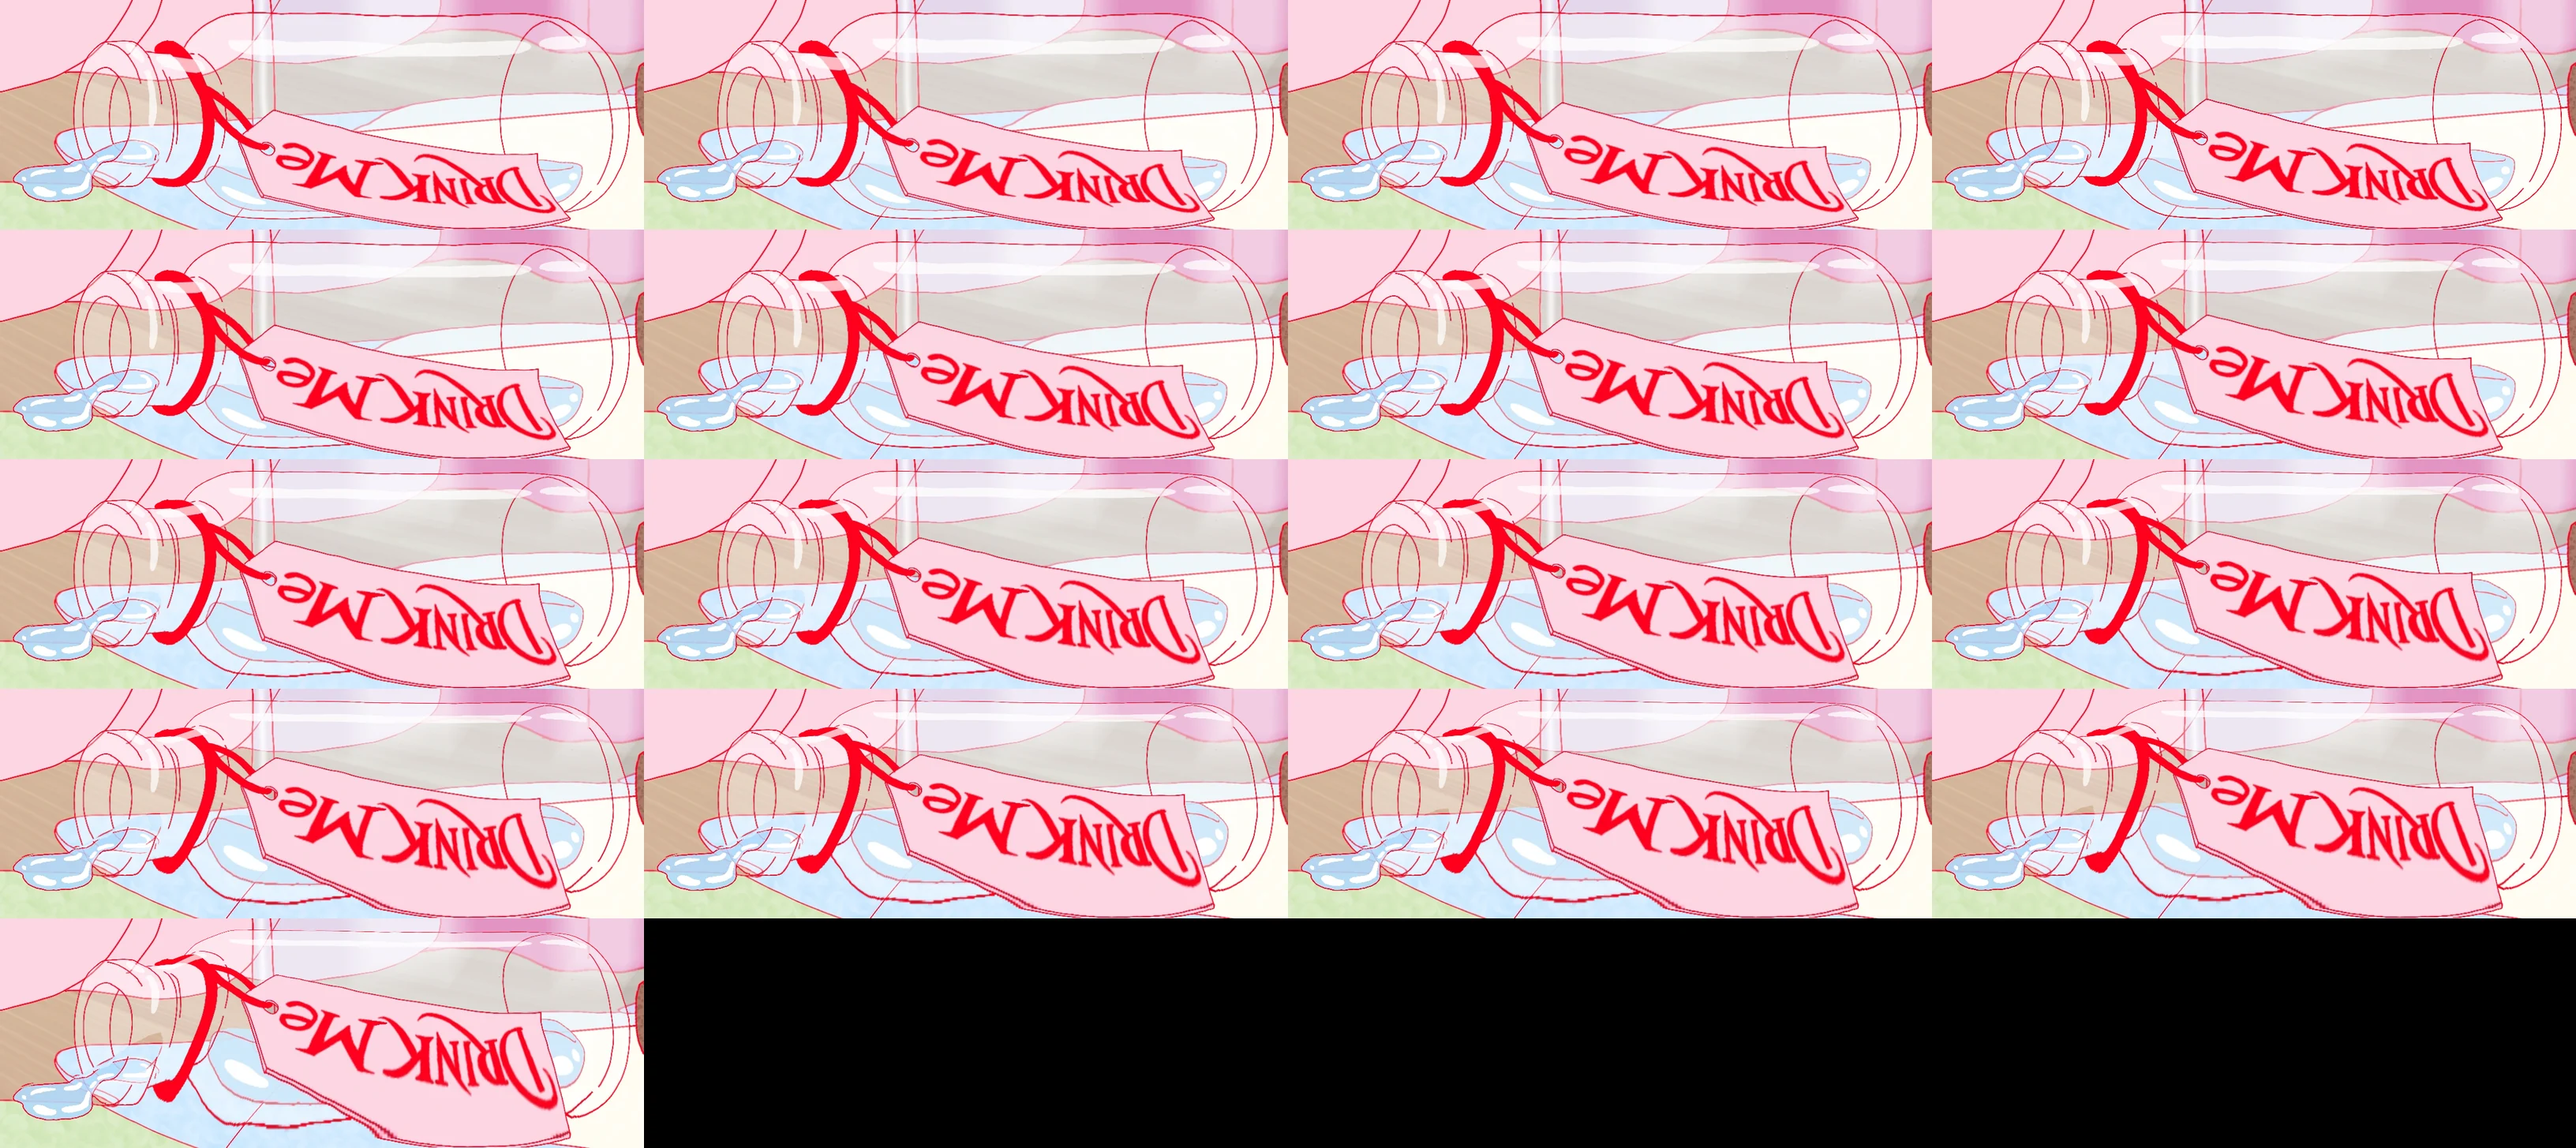
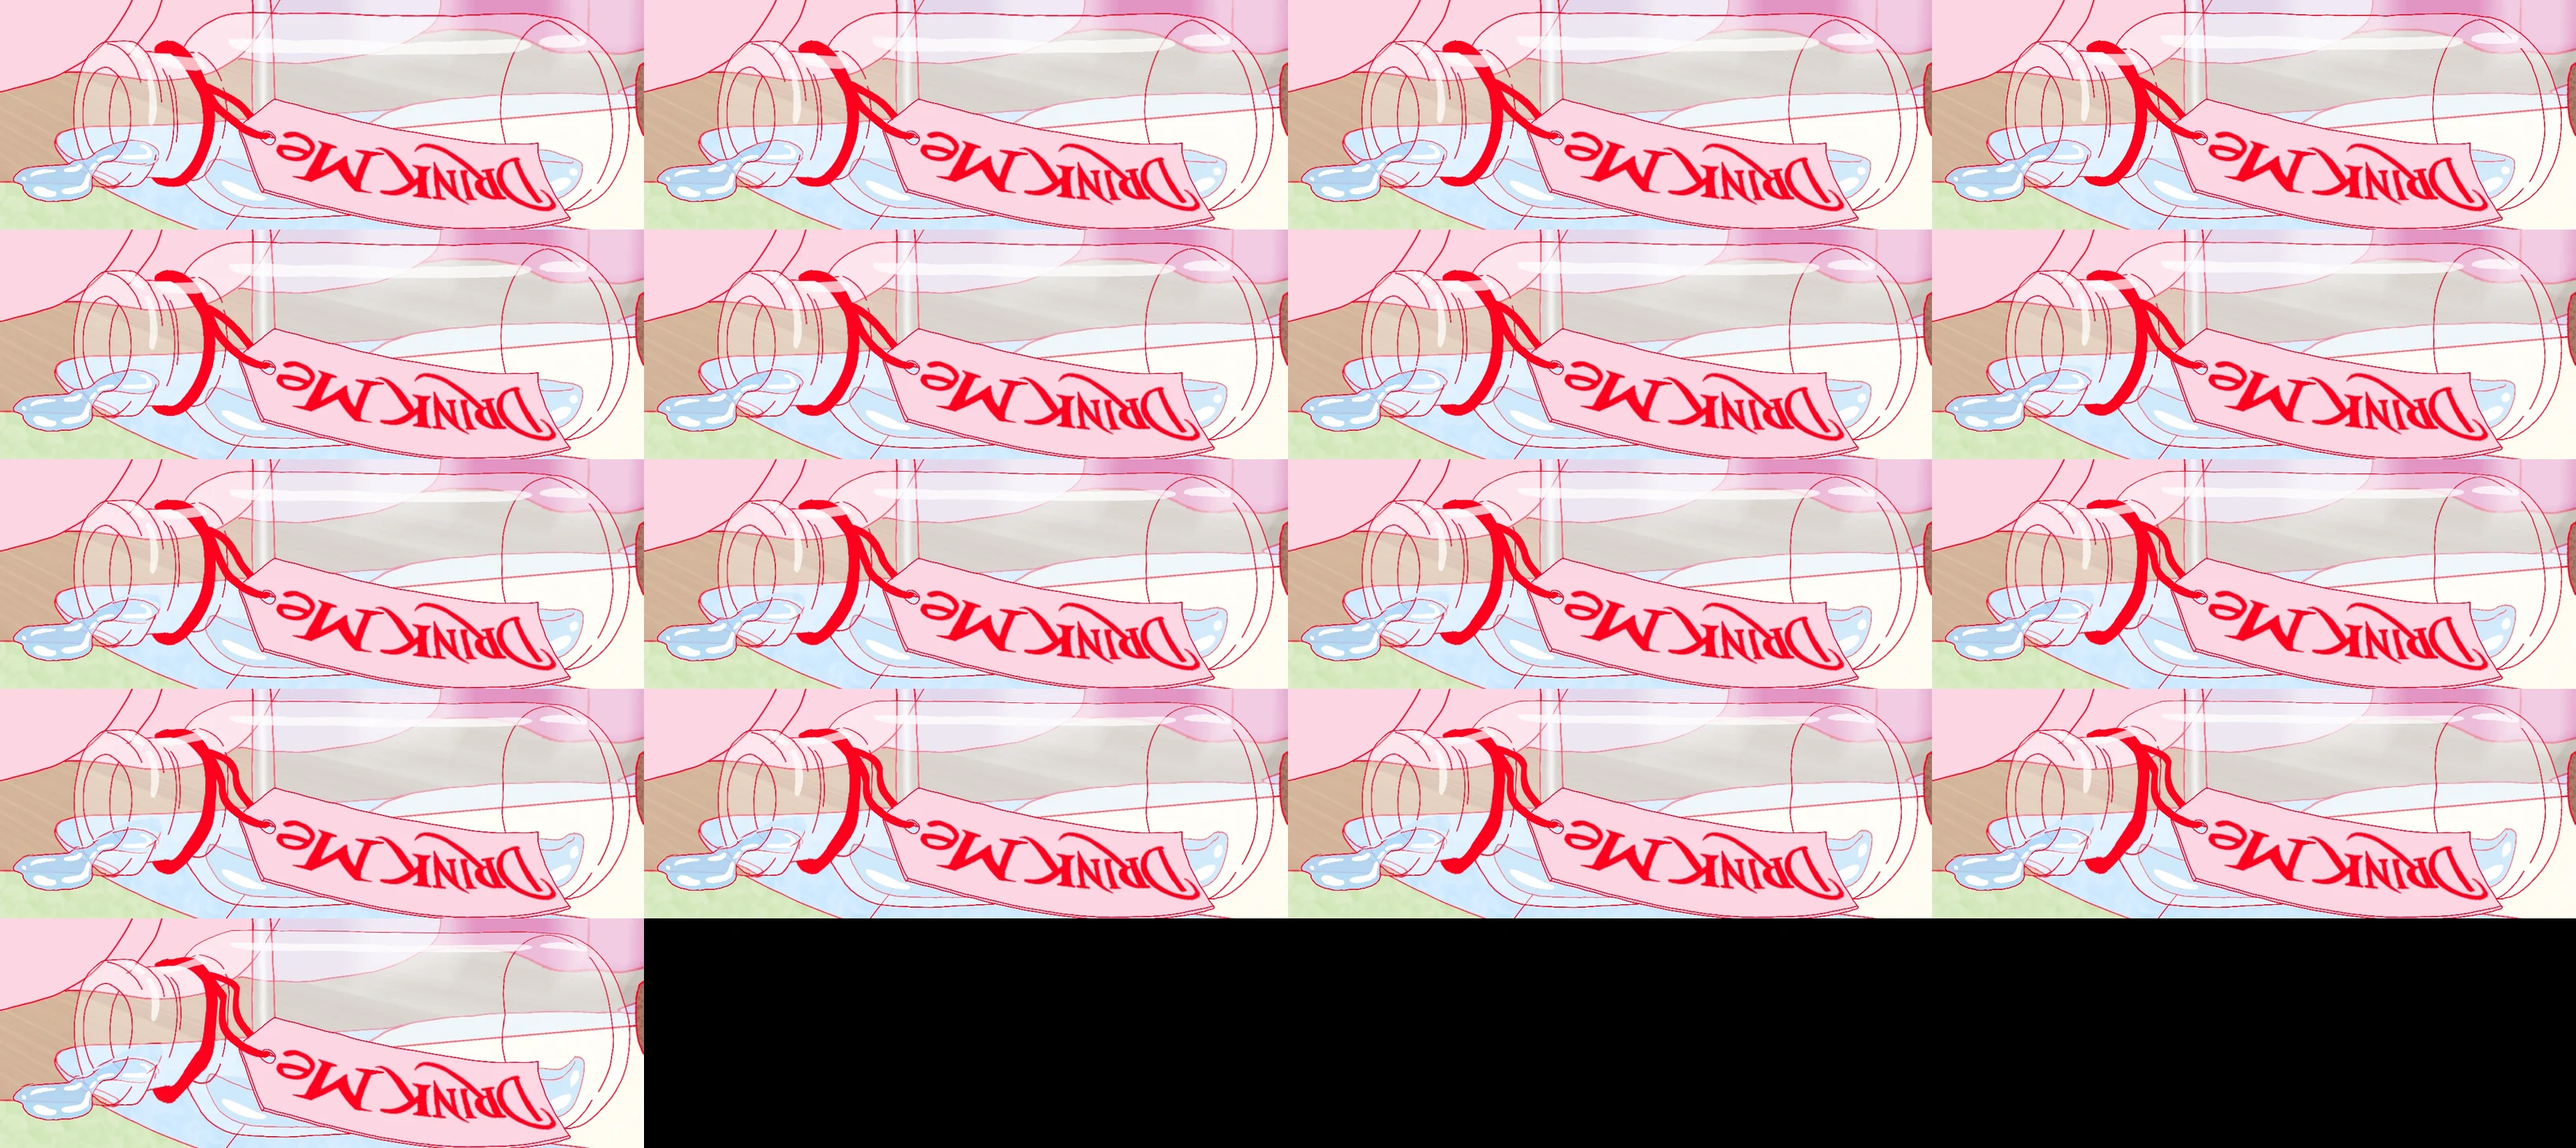
Garde le papier Drink Me intact pendant le roulis du verre

diff --git a/room-v2-ambient.js b/room-v2-ambient.js
@@ -1116,7 +1116,7 @@
     vial.src = folder + 'alice-fiole-debout.webp';
     vial.style.transformOrigin = '58% 81%';
     const landingArt = new Image();
-    landingArt.src = folder + 'alice-rotation-' + (document.documentElement.dataset.theme === 'night' ? 'nuit' : 'jour') + '.webp';
+    landingArt.src = folder + 'alice-rotation-' + (document.documentElement.dataset.theme === 'night' ? 'nuit' : 'jour') + '.webp?v=papier-fixe';
     const landing = document.createElement('canvas');
     const stripWidth = 1088, stripHeight = 388;
     landing.width = stripWidth;
@@ -1124,6 +1124,17 @@
     landing.setAttribute('aria-hidden','true');
     landing.style.cssText = 'position:absolute;pointer-events:none;z-index:1;';
     const ctx = landing.getContext('2d');
+    if (ctx) {
+      // Show the original paper layer through the motion overlay, including its lettering.
+      const glass = new Path2D();
+      glass.rect(0,0,stripWidth,stripHeight);
+      const paper = [[395,209],[459,163],[561,189],[680,221],[803,237],[915,237],
+        [920,280],[967,363],[971,385],[941,400],[392,400],[389,221]];
+      glass.moveTo(...paper[0]);
+      for (const point of paper.slice(1)) glass.lineTo(...point);
+      glass.closePath();
+      ctx.clip(glass,'evenodd');
+    }
     let rollFrame;
     let finished = false, timeout;
     function finish() {

diff --git a/index.html b/index.html
@@ -1067,7 +1067,7 @@ html body #work-desktop .desktop-folder .folder-tile.work-browser-tile{
                 style.href = 'room-v2-ambient.css?v=cent-1';
                 style.onload = () => {
                   const script = document.createElement('script');
-                  script.src = 'room-v2-ambient.js?v=alice-rotation-3';
+                  script.src = 'room-v2-ambient.js?v=alice-papier-1';
                   document.head.append(script);
                 };
                 document.head.append(style);
